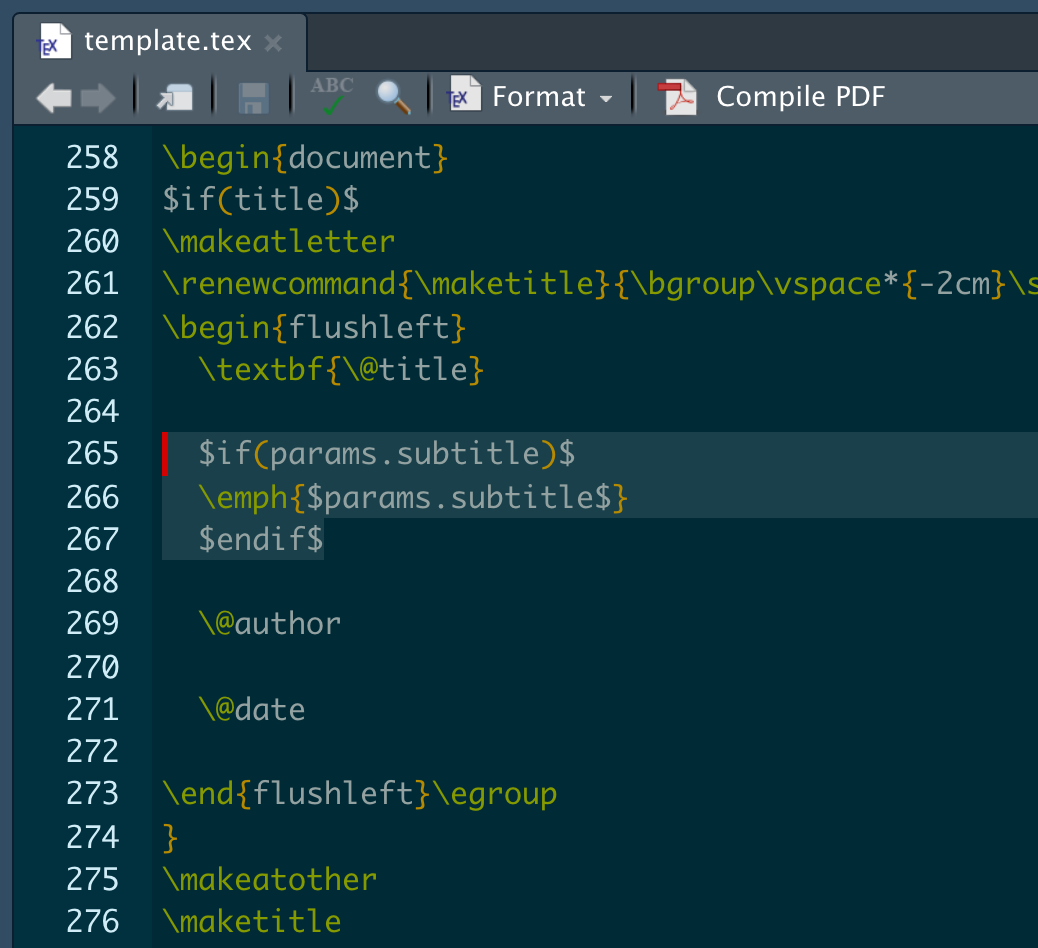
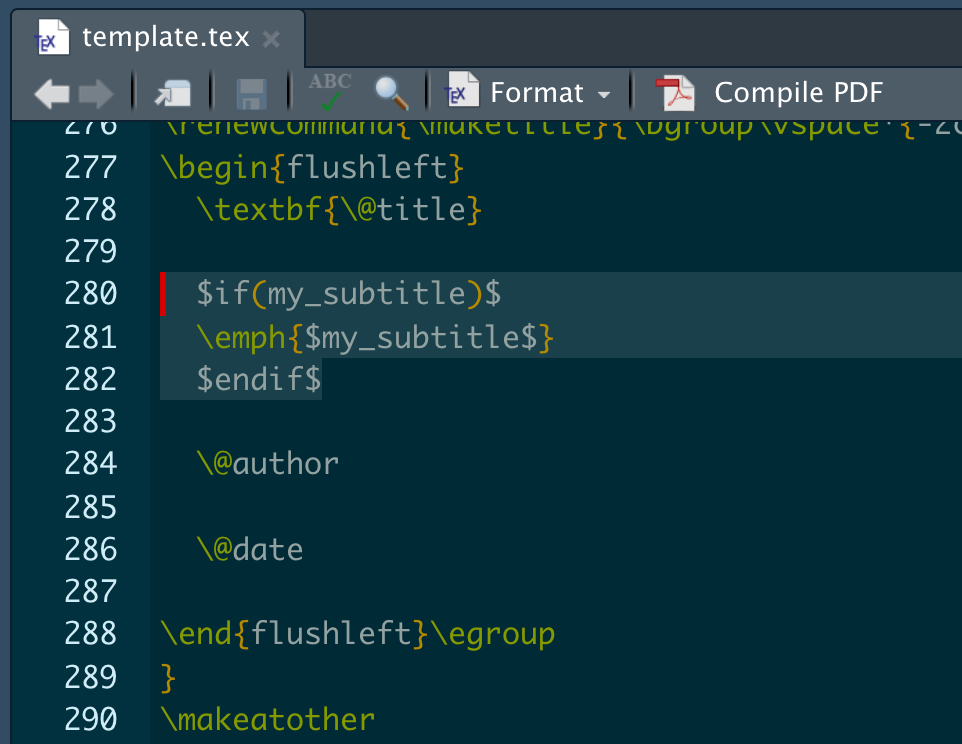
update readme to reflect yaml modification away from params: construction

Changed region(s): [[0.0, 0.0, 1.0, 0.9892], [0.1559, 0.8038, 0.5925, 0.9892], [0.1871, 0.711, 0.3119, 0.7728]]

diff --git a/README.md b/README.md
@@ -110,7 +110,7 @@ Mission accomplished!
 
 --- 
 
-Here's a bonus I learned along the way. You can send custom arguments to your `.tex` doc via YAML with the `params:` construction. Suppose I want an optional subtitle parameter. This is accomplished like so:
+Here's a bonus I learned along the way. You can send custom arguments to your `.tex` doc by simply defining new variables in the YAML header (relevant info in the pandoc docs [here](https://pandoc.org/MANUAL.html#extension-yaml_metadata_block). Suppose I want an optional subtitle parameter. This is accomplished like so:
 
 ```
 ---
@@ -121,8 +121,7 @@ output:
    pdf_document: 
       template: template.tex
       keep_tex: true
-params: 
-   subtitle: "FY 2018"
+my_subtitle: "FY 2018"
 geometry: margin=1in
 latex_engine: pdflatex
 ---
@@ -143,9 +142,8 @@ output:
    pdf_document: 
       template: template.tex
       keep_tex: true
-params: 
-   subtitle: "FY 2018"
-   fancy: true
+my_subtitle: "FY 2018"
+fancy: true
 geometry: margin=1in
 latex_engine: pdflatex
 ---
